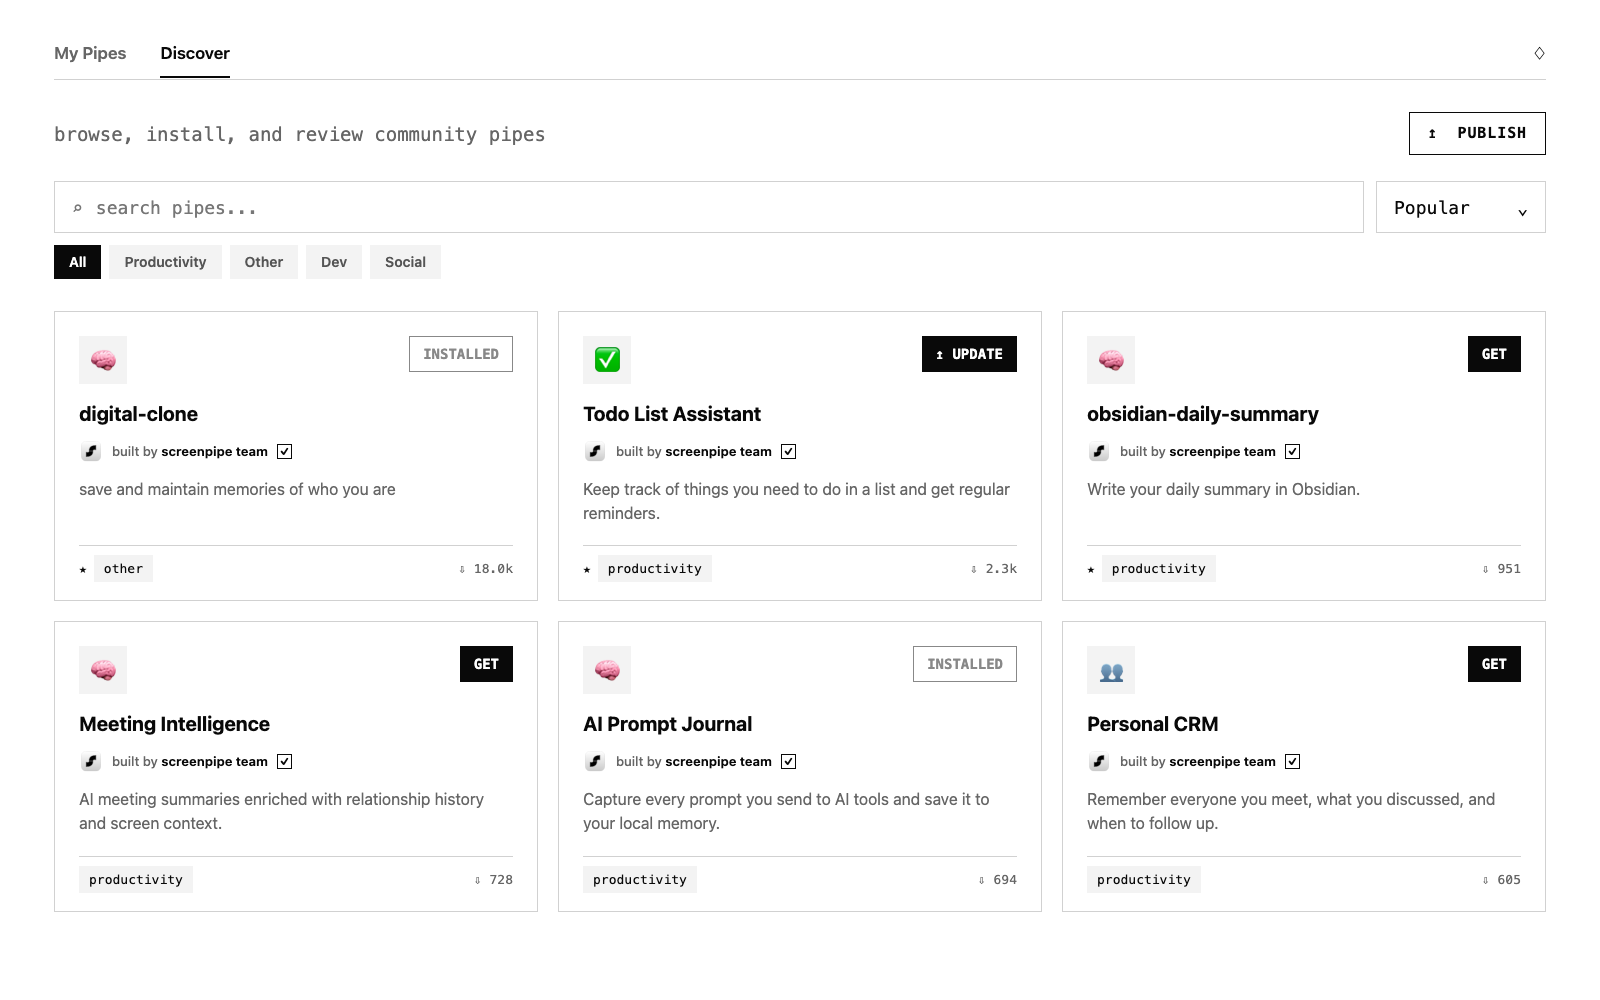
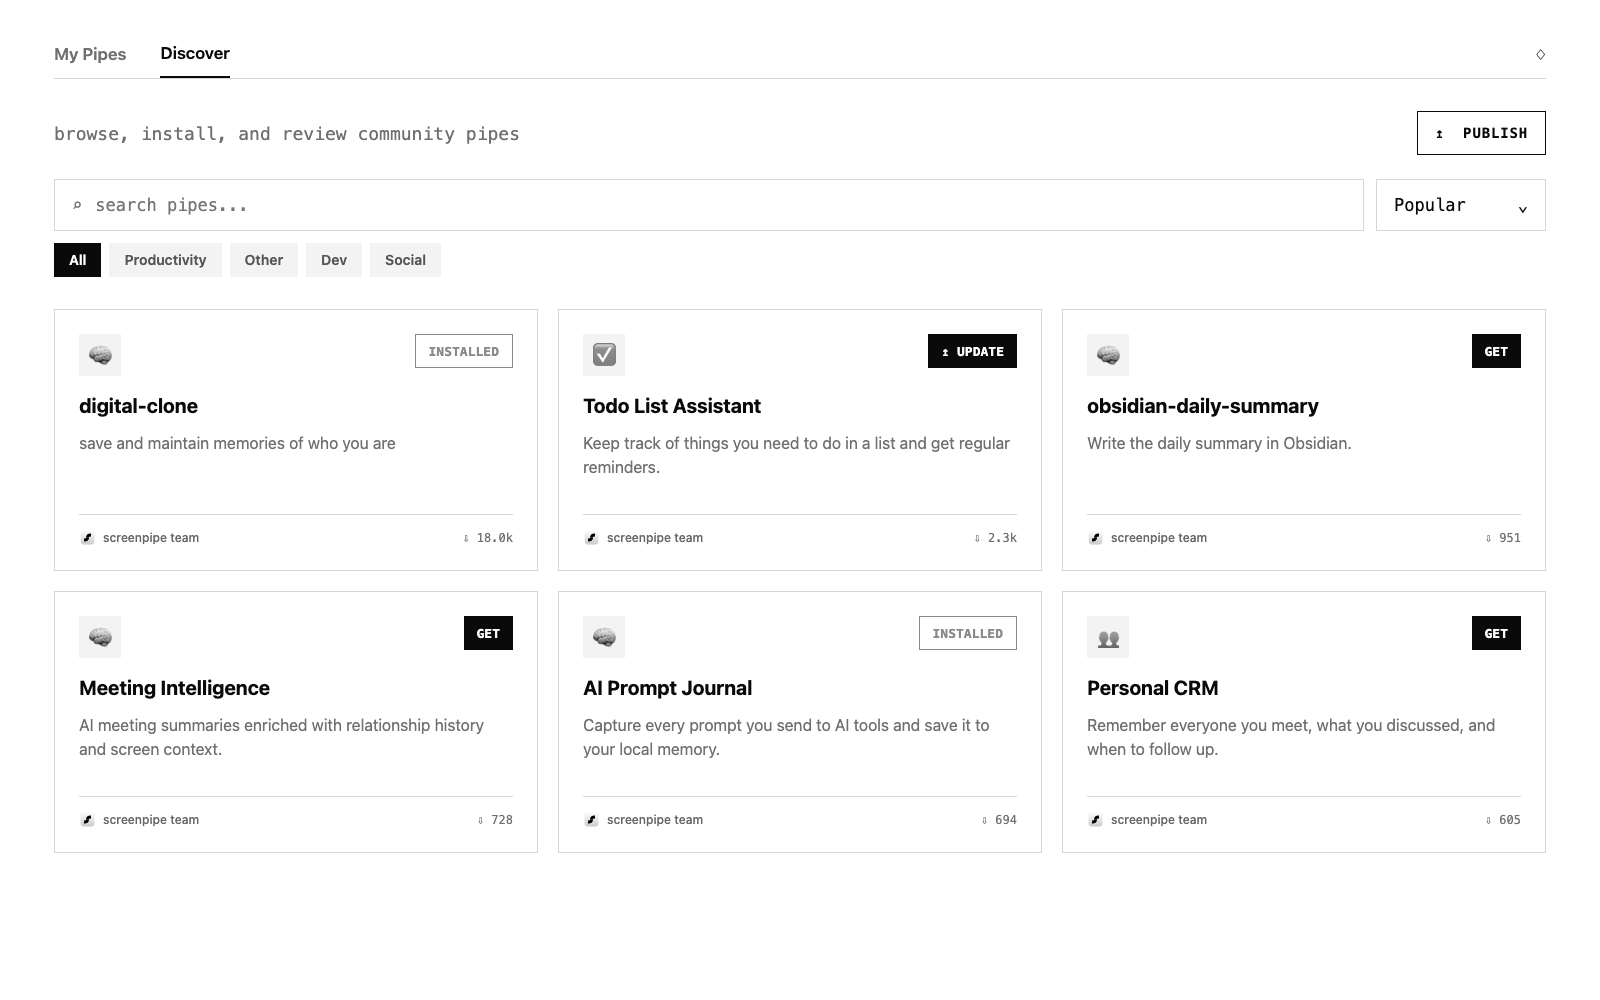
refactor(pipes): simplify store card hierarchy

diff --git a/apps/screenpipe-app-tauri/components/pipe-store.tsx b/apps/screenpipe-app-tauri/components/pipe-store.tsx
@@ -56,7 +56,6 @@ import {
   ArrowUpCircle,
   ExternalLink,
   GitFork,
-  Star,
 } from "lucide-react";
 import { cn } from "@/lib/utils";
 import { pickPipePreset } from "@/lib/utils/pick-pipe-preset";
@@ -1136,7 +1135,7 @@ function PipeCard({
     >
       {/* Header: icon + action */}
       <div className="flex items-start justify-between gap-3">
-        <div className="text-2xl bg-muted rounded-none h-11 w-11 flex items-center justify-center flex-shrink-0">
+        <div className="text-xl bg-muted rounded-none h-10 w-10 flex items-center justify-center flex-shrink-0 grayscale">
           {pipe.icon || "🔧"}
         </div>
         <Button
@@ -1168,25 +1167,17 @@ function PipeCard({
         </Button>
       </div>
 
-      {/* Title and publisher — full width, no truncation */}
+      {/* Title — full width, no truncation */}
       <h4 className="text-sm font-semibold mt-3 line-clamp-2 leading-snug">{pipe.title}</h4>
-      <PublisherIdentity publisher={publisher} className="mt-2" />
 
       {/* Description */}
-      <p className="text-xs text-muted-foreground line-clamp-2 mt-2 leading-relaxed flex-1">
+      <p className="text-xs text-muted-foreground line-clamp-2 mt-2.5 leading-relaxed flex-1">
         {pipe.description}
       </p>
 
-      {/* Footer: category + stats */}
-      <div className="flex items-center justify-between mt-3 pt-3 border-t border-border">
-        <div className="flex items-center gap-1.5">
-          {pipe.featured && (
-            <Star className="h-3 w-3 fill-foreground text-foreground flex-shrink-0" />
-          )}
-          <Badge variant="secondary" className="text-[10px] px-2 py-0.5 font-normal rounded-none">
-            {pipe.category}
-          </Badge>
-        </div>
+      {/* Footer: publisher + installs. Category already lives in the filters. */}
+      <div className="flex items-center justify-between gap-3 mt-4 pt-3 border-t border-border">
+        <PublisherIdentity publisher={publisher} compact />
         <span className="flex items-center gap-1 text-xs text-muted-foreground">
           <Download className="h-3 w-3" />
           {formatCount(pipe.install_count ?? 0)}
@@ -1199,37 +1190,65 @@ function PipeCard({
 function PublisherIdentity({
   publisher,
   className,
+  compact = false,
 }: {
   publisher: PipePublisherIdentity;
   className?: string;
+  compact?: boolean;
 }) {
+  const avatarClass = compact ? "h-4 w-4" : "h-5 w-5";
+
   return (
     <div
       data-testid="pipe-publisher-identity"
-      className={cn("flex min-w-0 items-center gap-2", className)}
+      aria-label={publisher.isScreenpipeTeam ? "official Screenpipe publisher" : undefined}
+      title={compact && publisher.isScreenpipeTeam ? "built by screenpipe team" : undefined}
+      className={cn(
+        "flex min-w-0 items-center",
+        compact ? "gap-1.5" : "gap-2",
+        className,
+      )}
     >
       {publisher.isScreenpipeTeam ? (
         <span
           aria-hidden="true"
-          className="h-5 w-5 flex-shrink-0 bg-cover bg-center"
+          className={cn(avatarClass, "flex-shrink-0 bg-cover bg-center")}
           style={{ backgroundImage: "url('/128x128.png')" }}
         />
       ) : (
         <span
           aria-hidden="true"
-          className="flex h-5 w-5 flex-shrink-0 items-center justify-center border border-border bg-muted text-[9px] font-semibold uppercase text-muted-foreground"
+          className={cn(
+            avatarClass,
+            "flex flex-shrink-0 items-center justify-center border border-border bg-muted font-semibold uppercase text-muted-foreground",
+            compact ? "text-[8px]" : "text-[9px]",
+          )}
         >
           {publisher.name.charAt(0)}
         </span>
       )}
-      <span className="truncate text-xs text-muted-foreground">
-        {publisher.isScreenpipeTeam ? "built by " : "by "}
-        <span className="font-medium text-foreground">{publisher.name}</span>
+      <span
+        className={cn(
+          "truncate text-muted-foreground",
+          compact ? "text-[11px]" : "text-xs",
+        )}
+      >
+        {compact ? (
+          <span className="font-medium">{publisher.name}</span>
+        ) : (
+          <>
+            {publisher.isScreenpipeTeam ? "built by " : "by "}
+            <span className="font-medium text-foreground">{publisher.name}</span>
+          </>
+        )}
       </span>
-      {publisher.verified && (
+      {publisher.verified && !publisher.isScreenpipeTeam && (
         <BadgeCheck
           aria-label="verified publisher"
-          className="h-3.5 w-3.5 flex-shrink-0 text-foreground"
+          className={cn(
+            "flex-shrink-0 text-foreground",
+            compact ? "h-3 w-3" : "h-3.5 w-3.5",
+          )}
         />
       )}
     </div>
